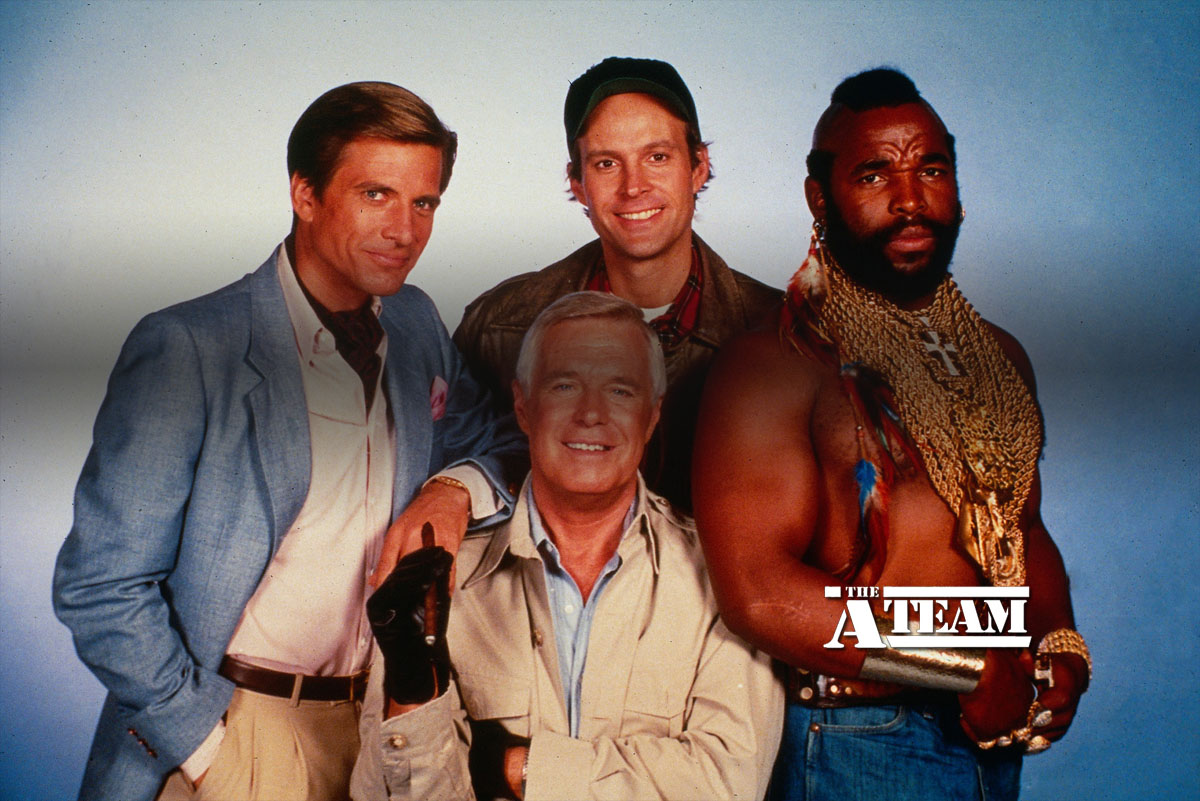
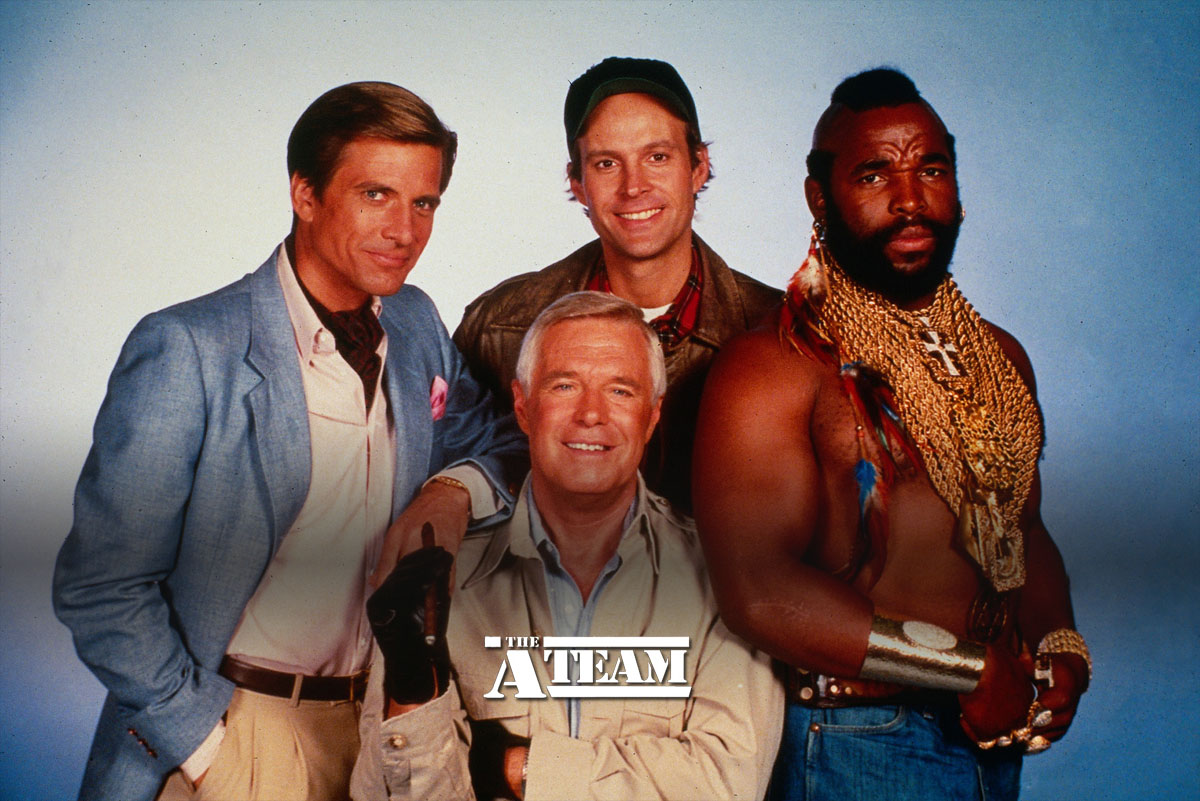
Feature TERMINE

diff --git a/index.html b/index.html
@@ -174,7 +174,7 @@
 
 					<!-- SLIDE 4.3 -->
 					<section data-background="img/a_team.jpg" data-transition="linear"  data-background-transition="slide">
-						<h3>Collaboration / Co-création</h3>
+						<h3 style="margin-top:320px;">Collaboration / Co-création</h3>
 					</section>
 
 					<!-- SLIDE 4.4 -->
@@ -325,7 +325,7 @@
 						</p>
 					</section>
 
-					<!-- SLIDE 7.6 -->
+					<!-- SLIDE 7.8 -->
 					<section data-background="img/erreurs.jpg" data-transition="linear"  data-background-transition="slide">
 						<h3 style="position:relative;margin-left:400px;">Principales erreurs à éviter</h3>
 						<p>
@@ -412,7 +412,7 @@
 
 					<!-- SLIDE 9.1 -->
 					<section>
-						<h2>3. Mise en oeuvre</h2>
+						<h2>3. Mise en œuvre</h2>
 					</section>
 
 					<!-- SLIDE 9.2 -->
@@ -460,7 +460,7 @@
 						<p>
 							<ul>
 								<li>
-									De tes connaissances et méconnaissances conscience tu auras !
+									De tes connaissances et méconnaissances, conscience tu auras !
 								</li>
 								<li>
 									De tes capacités, réaliste tu resteras.
@@ -563,10 +563,10 @@
 								Etape 1 : On est partie de Crystal Clear
 							</li>
 							<li class="fragment" data-fragment-index="1">
-								Etape 2 : On s'est concentrer sur les outils
+								Etape 2 : On s'est concentré sur les outils
 							</li>
 							<li class="fragment" data-fragment-index="2">
-								Etape 3 : La Kleptomanie, ça peut avoir du bon !
+								Etape 3 : La kleptomanie, ça peut avoir du bon !
 							</li>
 							<li class="fragment" data-fragment-index="3">
 								Etape 4 : L'intégration continue et les tests automatisés
@@ -643,6 +643,15 @@
 						<h2>Merci à tous</h2>
 						<small>GLOBALIS recrute <a href="http://www.globalis-ms.com/recrutement" >www.globalis-ms.com/recrutement</a> Venez nous voir, on est sur place...</small>
 						<img src="img/globalis-facts.png" width="1400px" style="border:0;background:transparent;box-shadow:none;position:relative;top=-30px"/>
+					</section>
+				</section>
+
+				<!-- SLIDE PARTIE 13 - QUESTIONS -->	
+				<section>
+
+					<!-- SLIDE 13.1 -->
+					<section data-background="img/qpuc.jpg" data-transition="linear"  data-background-transition="slide">
+						<h2>Questions ?!</h2>
 					</section>
 				</section>
 
